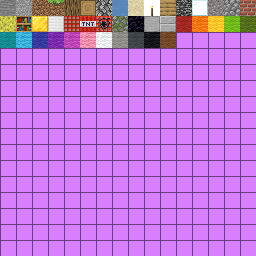
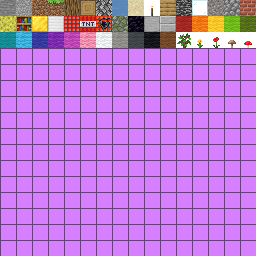
Decoration blocks added
Additional debugging for decoartion blocks and transparent/ liquid blocks needed

Changed region(s): [[0.6875, 0.125, 1.0, 0.1875]]

diff --git a/src/js/net/minecraft/client/render/BlockRenderer.js b/src/js/net/minecraft/client/render/BlockRenderer.js
@@ -20,6 +20,9 @@ export default class BlockRenderer {
             case BlockRenderType.TORCH:
                 this.renderTorch(world, block, x, y, z);
                 break;
+            case BlockRenderType.DECORATION:
+                this.renderDecoration(world, block, ambientOcclusion, x, y, z);
+                break;
         }
     }
 
@@ -246,14 +249,14 @@ export default class BlockRenderer {
         this.tessellator.setColor(1, 1, 1);
 
         // Add faces to tessellator
-        this.addDistortFace(world, EnumBlockFace.NORTH, false, chunkX, chunkY, chunkZ, minX, minY, minZ, maxX, maxY, maxZ, minU, minV, maxU, maxV, distortX, distortZ);
-        this.addDistortFace(world, EnumBlockFace.EAST, false, chunkX, chunkY, chunkZ, minX, minY, minZ, maxX, maxY, maxZ, minU, minV, maxU, maxV, distortX, distortZ);
-        this.addDistortFace(world, EnumBlockFace.SOUTH, false, chunkX, chunkY, chunkZ, minX, minY, minZ, maxX, maxY, maxZ, minU, minV, maxU, maxV, distortX, distortZ);
-        this.addDistortFace(world, EnumBlockFace.WEST, false, chunkX, chunkY, chunkZ, minX, minY, minZ, maxX, maxY, maxZ, minU, minV, maxU, maxV, distortX, distortZ);
+        this.addTorchFace(world, EnumBlockFace.NORTH, false, chunkX, chunkY, chunkZ, minX, minY, minZ, maxX, maxY, maxZ, minU, minV, maxU, maxV, distortX, distortZ);
+        this.addTorchFace(world, EnumBlockFace.EAST, false, chunkX, chunkY, chunkZ, minX, minY, minZ, maxX, maxY, maxZ, minU, minV, maxU, maxV, distortX, distortZ);
+        this.addTorchFace(world, EnumBlockFace.SOUTH, false, chunkX, chunkY, chunkZ, minX, minY, minZ, maxX, maxY, maxZ, minU, minV, maxU, maxV, distortX, distortZ);
+        this.addTorchFace(world, EnumBlockFace.WEST, false, chunkX, chunkY, chunkZ, minX, minY, minZ, maxX, maxY, maxZ, minU, minV, maxU, maxV, distortX, distortZ);
         this.addFace(world, EnumBlockFace.TOP, false, chunkX, chunkY, chunkZ, minX, minY, minZ, maxX, maxY, maxZ, minU, minV, maxU, maxV + 8 / 256);
     }
 
-    addDistortFace(world, face, ambientOcclusion, chunkX, chunkY, chunkZ, minX, minY, minZ, maxX, maxY, maxZ, minU, minV, maxU, maxV, distortX, distortZ) {
+    addTorchFace(world, face, ambientOcclusion, chunkX, chunkY, chunkZ, minX, minY, minZ, maxX, maxY, maxZ, minU, minV, maxU, maxV, distortX, distortZ) {
         if (face === EnumBlockFace.NORTH) {
             this.addBlockCorner(world, face, ambientOcclusion, chunkX, chunkY, chunkZ, minX, maxY, minZ, minU, minV);
             this.addBlockCorner(world, face, ambientOcclusion, chunkX, chunkY, chunkZ, minX + distortX, minY, minZ + distortZ, minU, maxV);
@@ -277,6 +280,91 @@ export default class BlockRenderer {
             this.addBlockCorner(world, face, ambientOcclusion, chunkX, chunkY, chunkZ, maxX, maxY, minZ, minU, minV);
             this.addBlockCorner(world, face, ambientOcclusion, chunkX, chunkY, chunkZ, maxX + distortX, minY, minZ + distortZ, minU, maxV);
             this.addBlockCorner(world, face, ambientOcclusion, chunkX, chunkY, chunkZ, maxX + distortX, minY, maxZ + distortZ, maxU, maxV);
+        }
+    }
+
+    renderDecoration(world, block, ambientOcclusion, x, y, z) {
+        let boundingBox = block.getBoundingBox(world, x, y, z);
+
+        let values = EnumBlockFace.values();
+        for (let i = 2; i < values.length; i++) {
+            let face = values[i];
+
+            // Check if face is hidden by other block
+            if (world != null) {
+
+                // Render face
+                this.renderDecorationFace(world, block, boundingBox, face, ambientOcclusion, x, y, z);
+            }
+        }
+    }
+
+    renderDecorationFace(world, block, boundingBox, face, ambientOcclusion, x, y, z) {
+        let chunkX = x >> 4;
+        let chunkY = y >> 4;
+        let chunkZ = z >> 4;
+
+        // Vertex mappings
+        let minX = x + boundingBox.minX;
+        let minY = y + boundingBox.minY;
+        let minZ = z + boundingBox.minZ;
+        let maxX = x + boundingBox.maxX;
+        let maxY = y + boundingBox.maxY;
+        let maxZ = z + boundingBox.maxZ;
+
+        // UV Mapping
+        let textureIndex = block.getTextureForFace(face);
+        let minU = (textureIndex % 16) / 16.0;
+        let maxU = minU + (16 / 256);
+        let minV = Math.floor(textureIndex / 16) / 16.0;
+        let maxV = minV + (16 / 256);
+
+        // Flip V
+        minV = 1 - minV;
+        maxV = 1 - maxV;
+
+        // Get color multiplier
+        let color = block.getColor(world, x, y, z, face);
+        let red = (color >> 16 & 255) / 255.0;
+        let green = (color >> 8 & 255) / 255.0;
+        let blue = (color & 255) / 255.0;
+
+        // Classic lightning
+        if (!ambientOcclusion) {
+            let level = world === null ? 15 : world.getTotalLightAt(minX + face.x, minY + face.y, minZ + face.z);
+            let brightness = 0.9 / 15.0 * level + 0.1;
+            let shade = brightness * face.getShading();
+            this.tessellator.setColor(red * shade, green * shade, blue * shade);
+        }
+
+        // Add face to tessellator
+        this.addDecorationFace(world, face, ambientOcclusion, chunkX, chunkY, chunkZ, minX, minY, minZ, maxX, maxY, maxZ, minU, minV, maxU, maxV, red, green, blue);
+    }
+
+    addDecorationFace(world, face, ambientOcclusion, chunkX, chunkY, chunkZ, minX, minY, minZ, maxX, maxY, maxZ, minU, minV, maxU, maxV, red = 1, green = 1, blue = 1) {
+        if (face === EnumBlockFace.NORTH) {
+            this.addBlockCorner(world, face, ambientOcclusion, chunkX, chunkY, chunkZ, minX, maxY, maxZ, minU, minV, red, green, blue);
+            this.addBlockCorner(world, face, ambientOcclusion, chunkX, chunkY, chunkZ, minX, minY, maxZ, minU, maxV, red, green, blue);
+            this.addBlockCorner(world, face, ambientOcclusion, chunkX, chunkY, chunkZ, maxX, minY, minZ, maxU, maxV, red, green, blue);
+            this.addBlockCorner(world, face, ambientOcclusion, chunkX, chunkY, chunkZ, maxX, maxY, minZ, maxU, minV, red, green, blue);
+        }
+        if (face === EnumBlockFace.SOUTH) {
+            this.addBlockCorner(world, face, ambientOcclusion, chunkX, chunkY, chunkZ, minX, maxY, maxZ, maxU, minV, red, green, blue);
+            this.addBlockCorner(world, face, ambientOcclusion, chunkX, chunkY, chunkZ, maxX, maxY, minZ, minU, minV, red, green, blue);
+            this.addBlockCorner(world, face, ambientOcclusion, chunkX, chunkY, chunkZ, maxX, minY, minZ, minU, maxV, red, green, blue);
+            this.addBlockCorner(world, face, ambientOcclusion, chunkX, chunkY, chunkZ, minX, minY, maxZ, maxU, maxV, red, green, blue);
+        }
+        if (face === EnumBlockFace.WEST) {
+            this.addBlockCorner(world, face, ambientOcclusion, chunkX, chunkY, chunkZ, maxX, minY, maxZ, minU, maxV, red, green, blue);
+            this.addBlockCorner(world, face, ambientOcclusion, chunkX, chunkY, chunkZ, minX, minY, minZ, maxU, maxV, red, green, blue);
+            this.addBlockCorner(world, face, ambientOcclusion, chunkX, chunkY, chunkZ, minX, maxY, minZ, maxU, minV, red, green, blue);
+            this.addBlockCorner(world, face, ambientOcclusion, chunkX, chunkY, chunkZ, maxX, maxY, maxZ, minU, minV, red, green, blue);
+        }
+        if (face === EnumBlockFace.EAST) {
+            this.addBlockCorner(world, face, ambientOcclusion, chunkX, chunkY, chunkZ, maxX, maxY, maxZ, maxU, minV, red, green, blue);
+            this.addBlockCorner(world, face, ambientOcclusion, chunkX, chunkY, chunkZ, minX, maxY, minZ, minU, minV, red, green, blue);
+            this.addBlockCorner(world, face, ambientOcclusion, chunkX, chunkY, chunkZ, minX, minY, minZ, minU, maxV, red, green, blue);
+            this.addBlockCorner(world, face, ambientOcclusion, chunkX, chunkY, chunkZ, maxX, minY, maxZ, maxU, maxV, red, green, blue);
         }
     }
 

diff --git a/src/js/net/minecraft/client/world/block/BlockRegistry.js b/src/js/net/minecraft/client/world/block/BlockRegistry.js
@@ -24,6 +24,11 @@ import BlockMossyCobblestone from "./type/BlockMossyCobblestone.js";
 import BlockObsidian from "./type/BlockObsidian.js";
 import BlockTNT from "./type/BlockTNT.js";
 import BlockWool from "./type/BlockWool.js";
+import BlockSapling from "./type/BlockSapling.js";
+import BlockDandelion from "./type/BlockDandelion.js";
+import BlockPoppy from "./type/BlockPoppy.js";
+import BlockBrownMushroom from "./type/BlockBrownMushroom.js";
+import BlockRedMushroom from "./type/BlockRedMushroom.js";
 
 export class BlockRegistry {
 
@@ -43,6 +48,7 @@ export class BlockRegistry {
         BlockRegistry.DIRT = new BlockDirt(3, 2);
         BlockRegistry.COBBLE_STONE = new BlockCobblestone(4, 14);
         BlockRegistry.WOOD = new BlockWood(5, 10);
+        BlockRegistry.SAPLING = new BlockSapling(6,43);
         BlockRegistry.BEDROCK = new BlockBedrock(7, 11);
         BlockRegistry.WATER = new BlockWater(9, 7);
         BlockRegistry.SAND = new BlockSand(12, 8);
@@ -67,6 +73,10 @@ export class BlockRegistry {
         BlockRegistry.WOOL_GRAY = new BlockWool(34, 40);
         BlockRegistry.WOOL_BLACK = new BlockWool(35, 41);
         BlockRegistry.WOOL_BROWN = new BlockWool(36, 42);
+        BlockRegistry.DANDELION = new BlockDandelion(37, 44);
+        BlockRegistry.POPPY = new BlockPoppy(38, 45);
+        BlockRegistry.BROWN_MUSHROOM = new BlockBrownMushroom(39, 46);
+        BlockRegistry.RED_MUSHROOM = new BlockRedMushroom(40, 47);
         BlockRegistry.GOLD = new BlockGold(41, 18);
         BlockRegistry.IRON = new BlockIron(42, 19);
         BlockRegistry.DOUBLE_SLAB = new BlockDoubleSlab(43, 26);

diff --git a/src/js/net/minecraft/client/world/block/type/BlockTorch.js b/src/js/net/minecraft/client/world/block/type/BlockTorch.js
@@ -46,6 +46,7 @@ export default class BlockTorch extends Block {
             if (world.isSolidBlockAt(x + dataFace.x, y + dataFace.y, z + dataFace.z)) {
                 let data = i + 1;
 
+                console.log("added:"+data);
                 // Update block data in world
                 world.setBlockDataAt(x, y, z, data);
                 break;
@@ -64,7 +65,7 @@ export default class BlockTorch extends Block {
                 break;
             }
         }
-
+        console.log("placed:"+data);
         // Update block data in chunk section directly to avoid notify
         world.getChunkSectionAt(x >> 4, y >> 4, z >> 4).setBlockDataAt(x & 15, y & 15, z & 15, data);
     }

diff --git a/src/js/net/minecraft/client/world/block/type/BlockBrownMushroom.js b/src/js/net/minecraft/client/world/block/type/BlockBrownMushroom.js
@@ -1,0 +1,24 @@
+import BlockRenderType from "../../../../util/BlockRenderType.js";
+import Block from "../Block.js";
+
+export default class BlockBrownMushroom extends Block {
+
+    constructor(id, textureSlotId) {
+        super(id, textureSlotId);
+
+        // Sound
+        this.sound = Block.sounds.grass;
+    }
+
+    getRenderType() {
+        return BlockRenderType.DECORATION;
+    }
+
+    isTranslucent() {
+        return true;
+    }
+
+    isSolid() {
+        return false;
+    }
+}

diff --git a/src/js/net/minecraft/client/world/block/type/BlockRedMushroom.js b/src/js/net/minecraft/client/world/block/type/BlockRedMushroom.js
@@ -1,0 +1,24 @@
+import BlockRenderType from "../../../../util/BlockRenderType.js";
+import Block from "../Block.js";
+
+export default class BlockRedMushroom extends Block {
+
+    constructor(id, textureSlotId) {
+        super(id, textureSlotId);
+
+        // Sound
+        this.sound = Block.sounds.grass;
+    }
+
+    getRenderType() {
+        return BlockRenderType.DECORATION;
+    }
+
+    isTranslucent() {
+        return true;
+    }
+
+    isSolid() {
+        return false;
+    }
+}

diff --git a/src/js/net/minecraft/client/world/block/type/BlockDandelion.js b/src/js/net/minecraft/client/world/block/type/BlockDandelion.js
@@ -1,0 +1,24 @@
+import BlockRenderType from "../../../../util/BlockRenderType.js";
+import Block from "../Block.js";
+
+export default class BlockDandelion extends Block {
+
+    constructor(id, textureSlotId) {
+        super(id, textureSlotId);
+
+        // Sound
+        this.sound = Block.sounds.grass;
+    }
+
+    getRenderType() {
+        return BlockRenderType.DECORATION;
+    }
+
+    isTranslucent() {
+        return true;
+    }
+
+    isSolid() {
+        return false;
+    }
+}

diff --git a/src/js/net/minecraft/client/world/block/type/BlockSapling.js b/src/js/net/minecraft/client/world/block/type/BlockSapling.js
@@ -1,0 +1,24 @@
+import BlockRenderType from "../../../../util/BlockRenderType.js";
+import Block from "../Block.js";
+
+export default class BlockSapling extends Block {
+
+    constructor(id, textureSlotId) {
+        super(id, textureSlotId);
+
+        // Sound
+        this.sound = Block.sounds.grass;
+    }
+
+    getRenderType() {
+        return BlockRenderType.DECORATION;
+    }
+
+    isTranslucent() {
+        return true;
+    }
+
+    isSolid() {
+        return false;
+    }
+}

diff --git a/src/js/net/minecraft/client/world/block/type/BlockPoppy.js b/src/js/net/minecraft/client/world/block/type/BlockPoppy.js
@@ -1,0 +1,24 @@
+import BlockRenderType from "../../../../util/BlockRenderType.js";
+import Block from "../Block.js";
+
+export default class BlockPoppy extends Block {
+
+    constructor(id, textureSlotId) {
+        super(id, textureSlotId);
+
+        // Sound
+        this.sound = Block.sounds.grass;
+    }
+
+    getRenderType() {
+        return BlockRenderType.DECORATION;
+    }
+
+    isTranslucent() {
+        return true;
+    }
+
+    isSolid() {
+        return false;
+    }
+}

diff --git a/src/js/net/minecraft/client/world/block/type/BlockIron.js b/src/js/net/minecraft/client/world/block/type/BlockIron.js
@@ -1,3 +1,4 @@
+import BlockRenderType from "../../../../util/BlockRenderType.js";
 import Block from "../Block.js";
 
 export default class BlockIron extends Block {
@@ -5,5 +6,4 @@ export default class BlockIron extends Block {
     constructor(id, textureSlotId) {
         super(id, textureSlotId);
     }
-
 }

diff --git a/src/js/net/minecraft/util/BlockRenderType.js b/src/js/net/minecraft/util/BlockRenderType.js
@@ -1,4 +1,5 @@
 export default class BlockRenderType {
     static BLOCK = 0;
     static TORCH = 1;
+    static DECORATION = 2;
 }
